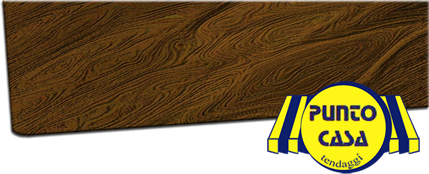
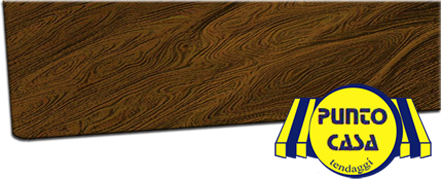
bozza iniziale sito completata

diff --git a/css/templeate.css b/css/templeate.css
@@ -20,10 +20,10 @@ body{
 #contenuto{
   width:300px;
   position:absolute;
-  left:545px;
-  top:240px;
+  left:560px;
+  top:300px;
   font-family:TAHOMA;
-  font-size:14pt;
+  font-size:12pt;
   text-align:right;
 }
 #bottom_menubar{
@@ -33,4 +33,7 @@ body{
   width:835px;
   margin-top:5px;
   margin-left:30px
+}
+a:link {
+  color:blue;
 }

diff --git a/css/slideshow.css b/css/slideshow.css
@@ -1,10 +1,10 @@
 #slideshow {
     height: 603px;
-    left: 19px;
+    left: 17px;
     overflow-x: hidden;
     position: absolute;
-    top: 16px;
-    width: 850px;
+    top: 17px;
+    width: 865px;
     z-index: -3;
     background-color:white;
 }

diff --git a/init.php b/init.php
@@ -30,22 +30,19 @@ if ($d) {
     }
   </script>
   <style type="text/css">
-    #credits a{
+    #navigation_menu a{
       text-decoration:none;
     }
-    #credits a:link, a:visited {
-      color:blue;
-    }
-    #credits a:hover{
-      color:yellow;
+    #navigation_menu a:link, a:visited {
+      color:white;
     }
   </style>
 
 </head>
 <body>
   <div id="content_all">
-    <div id="cornice_up" style="width:900px; height:57px; background-image:url('img/cornice_up.png')"></div>
-    <div id="cornice_center" style="width:900px; height:523px; background-image:url('img/cornice_center.png'); background-repeat:repeat-y;">
+    <div id="cornice_up" style="width:900px; height:24px; background-image:url('img/cornice_up.png')"></div>
+    <div id="cornice_center" style="width:900px; height:569px; background-image:url('img/cornice_center.png'); background-repeat:repeat-y;">
       <div id="slideshow">
         <img src="img/slider/image_1.jpg" class="active" />
         <?php
@@ -57,18 +54,33 @@ if ($d) {
         ?>
       </div>
      </div>
-    <div id="cornice_bottom" style="width:900px; height:42px; background-image:url('img/cornice_bottom.png')"></div>
-    <div style="z-index:-1; width:429px; height:174px; background-image:url('img/bg_header.png'); position:absolute; left:442px; top:14px;">
+    <div id="cornice_bottom" style="width:900px; height:27px; background-image:url('img/cornice_bottom.png')"></div>
+    <div id="logo_header" style="z-index:-1; width:441px; height:179px; background-image:url('img/bg_header.png'); position:absolute; left:442px; top:14px;"></div>
+    <div id="navigation_menu" style="-webkit-border-radius: 20px 0px 0px 20px;
+                -moz-border-radius: 20px 0px 0px 20px;
+                border-radius: 20px 0px 0px 20px;
+                background-color:black;
+                position:absolute;
+                top:195px;
+                left:512px;
+                height:25px;
+                width:370px;
+                color:white;
+                font-family:verdana;
+                font-size:11pt;
+                line-height:22px;
+                text-align:center;">
+      <a href="chi_siamo.php">Chi Siamo</a> | <a href="immagini.php">Immagini</a> | <a href="contatti.php">Contatti</a> | <a href="dove_siamo.php">Dove Siamo</a>
     </div>
-    <div style="position:absolute;top:16px; left:445px; color:white">
+    <div id="text_header"style="position:absolute;top:16px; left:445px; color:white">
       <div style="height:43px; font-family: 'Waiting for the Sunrise', cursive; font-size:23pt;margin-left:20px">Punto Casa di Umberto Speranza</div>
       <div style="margin-left:10px">Tende da interno - Tappezzeria - Tende da sole</div>
       <div style="margin-left:150px">Zanzariere - Veneziane - Tettoie in legno</div>
       <em style="margin-left:12px; position:relative; top:10px">Nocera Inferiore (SA) - Via Roma, 55</em>
     </div>
-    <div style="width:293px; height:456px; background-image:url('img/flower.png'); position:absolute; top:120px; left:577px;z-index:-2; opacity:0.7"></div>
-    <div style="width:172px; height:340px; background-image:url('img/foto_centrali.png'); position:absolute; top:205px; left:355px;"></div>
-    <div style="background-color: black;
+    <div id="bg_contenuto"style="width:293px; height:456px; background-image:url('img/flower.png'); position:absolute; top:120px; left:589px;z-index:-2; opacity:0.7"></div>
+    <div id="foto_centrali" style="width:172px; height:340px; background-image:url('img/foto_centrali.png'); position:absolute; top:215px; left:355px;"></div>
+    <div id="credits_bar" style="background-color: black;
                 border-top-left-radius: 50px;
                 color: white;
                 font-family: Verdana;
@@ -76,7 +88,7 @@ if ($d) {
                 font-style: italic;
                 font-weight: bold;
                 height: 50px;
-                left: 378px;
+                left: 390px;
                 position: absolute;
                 text-align: right;
                 top: 566px;

diff --git a/index.php b/index.php
@@ -5,7 +5,7 @@
   <title>Home Page | Punto Casa Tendaggi di Umbero Speranza</title>
   <meta name="description" content="Home page del sito Punto Casa Tendaggi di Umberto Speranza" />
 <?php   require_once 'init.php'; ?>
-  <div style="color:#003366; font-family: 'Reenie Beanie', arial, serif; font-size:30pt; position:absolute; top:150px; left:455px;">Home Page</div>
+  <div style="color:#003366; font-family: 'Reenie Beanie', arial, serif; font-size:30pt; position:absolute; top:230px; left:560px;">Home Page</div>
   <div id="contenuto">
     <span>Devi montare tende da sole o da interno?</span> <br />
     <span>Desideri abbellire la tua casa con una tettoia in legno?</span> <br /><br />
